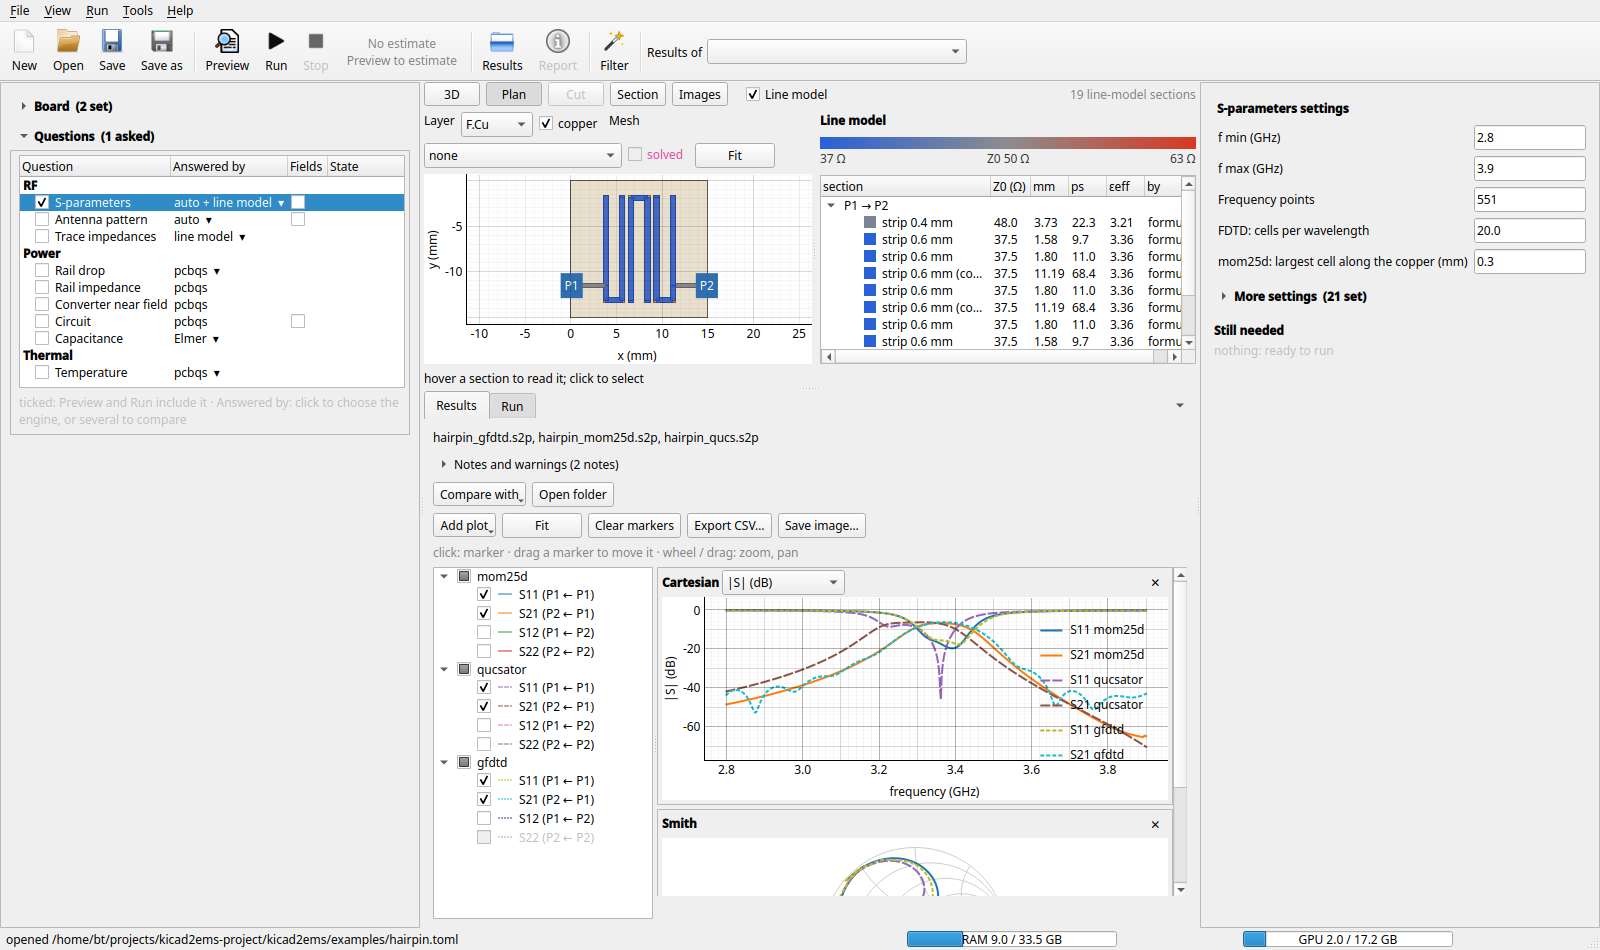
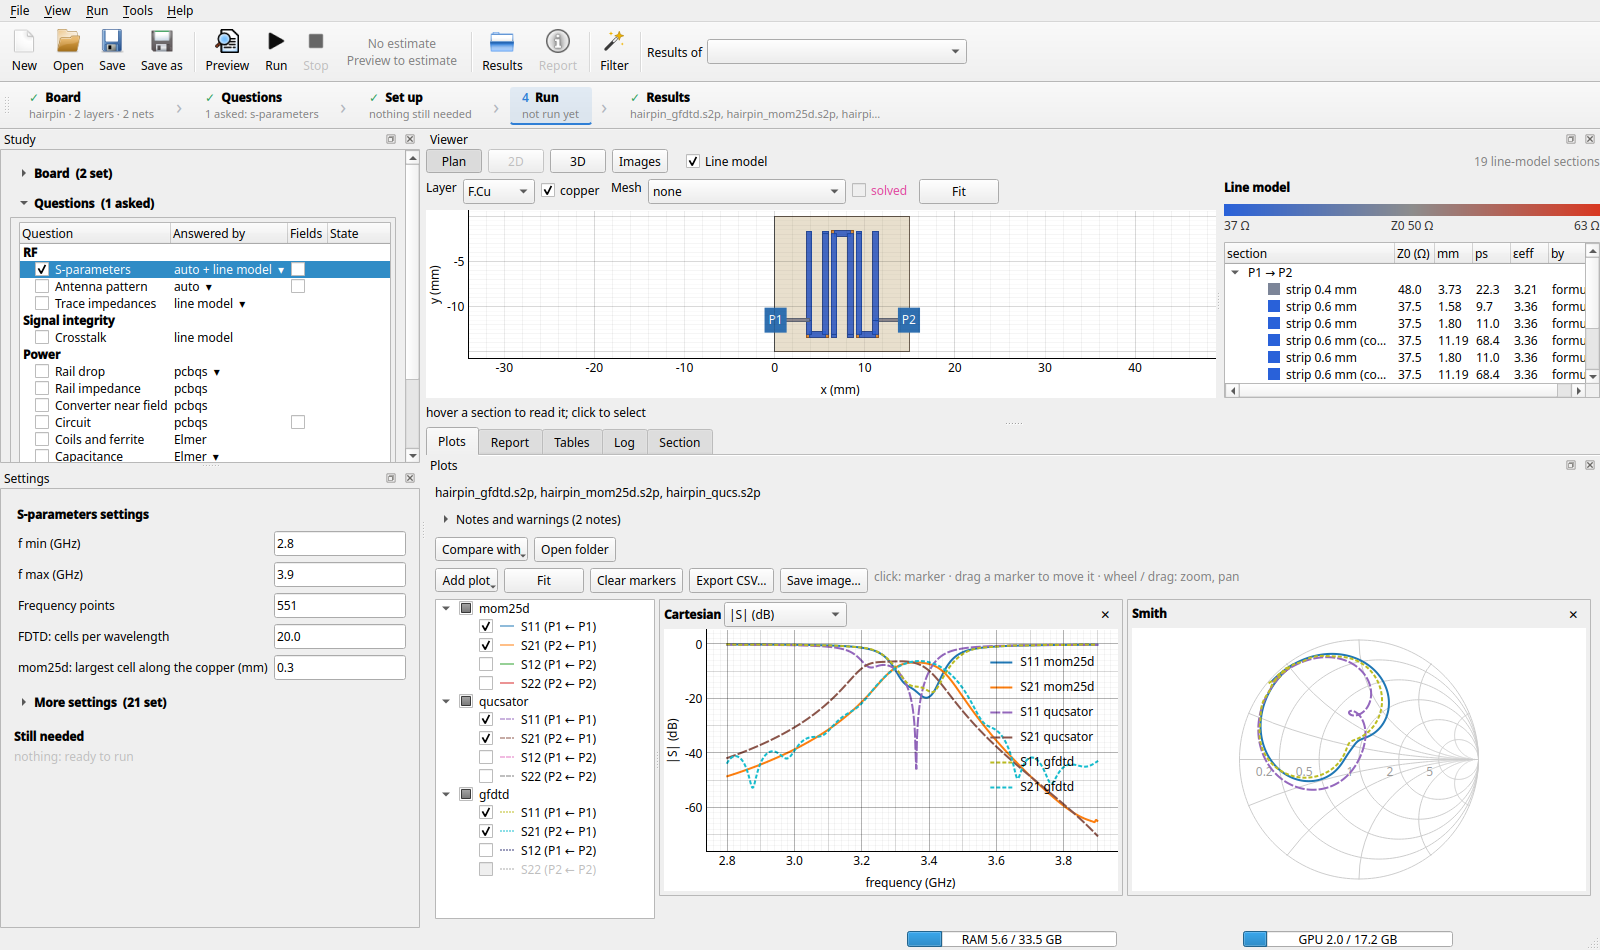
Docs for the window's Start page, result pages, Section page and steps bar
docs/gui.md describes the window as kicad2ems-gui now builds it: the
Start page, Plots, Report, Tables and Log as pages of their own, the
Section page under the board, the Viewer's four views in the order
Plan, 2D, 3D, Images, and the steps bar. The window's pictures are made
again (tools/readme_media.py), with one of the Start page. CHANGELOG
and ROADMAP say what was built and what is left. Pins kicad2ems-gui.

Claude-Session: https://claude.ai/code/session_012CT5QN8wURAqVga6eLwqiU

diff --git a/src/kicad2ems/__init__.py b/src/kicad2ems/__init__.py
@@ -38,7 +38,7 @@ The window is its own package, kicad2ems-gui (the gui extra), as are the full-wa
 
 Documentation: docs/index.md in the repository.
 """
-__version__ = '261112.post16'
+__version__ = '261112.post17'
 
 import os as _os
 # kicad2ems.examples is the checkout's examples/ (pyproject's package-dir). A compat editable install (install.py's

diff --git a/docs/gui.md b/docs/gui.md
@@ -15,8 +15,17 @@ loses a run, and the GUI itself doesn't need openEMS.
 ## The window
 
 Docks: what is asked and the settings of the question selected on the left, one over the other; the board with
-the results that are not maps under it in the rest of the window. Each dock can be dragged elsewhere, tabbed
-with another, floated or closed.
+the result's pages (its plots, its report, its tables, the log) beside and under it in the rest of the window.
+Each dock can be dragged elsewhere, tabbed with another, floated or closed.
+
+<a id="start"></a>
+**A window with no board begins on the Start page**: *Open a KiCad board…*, *Open a config…*, *Open a results
+folder…*, the configs opened lately, and the examples as tiles by group, each with its board drawn from above
+(a group shows its first five; *all* the rest; *Find an example* keeps those with every word typed in their
+name, title or group). A click on a tile opens the example as a study of its own. The page has the workspace to
+itself until a board is chosen or a result opened; *View > Start* brings it back.
+
+![The Start page: open a board, a config or a results folder, or begin from an example](img/gui/start.png)
 
 - **Toolbar**: New, Open, Save, Save as, Preview, Run, Stop, the run's estimate, the results folder, the report,
   *Filter* (the wand: [Filter Synthesis](#filter), a window of its own), and *Results of*: this board's preview
@@ -25,13 +34,21 @@ with another, floated or closed.
   red when it won't fit in the memory available. It opens the Solvers window. **Run says what it will do**
   (*Run 2*: its tooltip names them in order) or, while something is missing, what that is (*Choose the board*):
   clicking it then goes to where it is set ([Still needed](#needed)).
+- <a id="steps"></a>**Steps**, a bar under the toolbar: *Board*, *Questions*, *Set up*, *Run*, *Results*, each
+  with where it stands in a line (the board's layers and nets; what is asked; what is still needed; the
+  estimate, or the run's state; what the result is). Those done have a tick, the first that is not is marked;
+  a click goes to where a step is done. It says where the study is, and the toolbar stays what acts. Drag it by
+  its handle to the bottom of the window (or back), and *View > Steps* hides it.
 - **Status bar**: the memory in use, the GPU's (through `nvidia-smi` or `rocm-smi`), and a running run's own;
   amber above 80 %, red above 95 %.
 - **Left: the board and the questions.** The *Board* (its file and extra ports; the rest under *More about the
   board*), then the **Questions** asked of it ([below](#the-study)).
 - **The workspace: the board**, in the [Viewer](#viewer). While *Circuit* is asked its schematic is a tab beside
-  it, as Filter Synthesis is when opened. Under it the [Results](#plots) page and the [Run](#the-run-page) page,
-  tabbed; a page comes to the front when it has something new: Run when a run starts, Results when one ends.
+  it, as Filter Synthesis is when opened. A result has a page for each thing it is: its [Plots](#plots), beside
+  the board where the window has the width (1,400 px of workspace; else the first tab under it), and under the
+  board, tabbed, its [Report, its Tables](#report-page), the [Log](#the-log-page) and, with a line model, the
+  [Section](#section) picked. A page comes to the front when it has something new: the Log when a run starts,
+  the Report (or, for S-parameters, the Plots) when one ends.
 - **Left, under the questions: the settings of the question selected.** For S-parameters, the few a run is set up with: the frequency
   range and points, and the main cell size of each solver chosen. The rest are under **More settings**: the
   sections *Frequency*, *Solvers* (the driven ports), one per solver (*FDTD (openEMS, gfdtd)*: the mesh, run and
@@ -57,14 +74,15 @@ with another, floated or closed.
   what the proposal could not say (a rail's source) is listed under Still needed
   ([the steps on a board](https://github.com/lowprocess/pcbqs/blob/main/docs/power-workflow.md#4-from-one-tool-to-the-next)).
 
-*View* shows and closes each dock (the study and the settings: Ctrl+1, 2), and *View > Reset layout* puts them
-all back where a new window has them. The window remembers its size, where its docks are, its splitters and the
-Results page's plots between sessions; the first time it opens over the whole screen.
+*View* shows and closes each dock (the study and the settings: Ctrl+1, 2) and the steps bar, and *View > Reset
+layout* puts them all back where a new window has them. The window remembers its size, where its docks and the
+steps bar are, its splitters and the Plots page's plots between sessions; the first time it opens over the
+whole screen.
 
 <a id="run-folders"></a>
 **Where results go.** Each run gets a folder of its own under the output folder, named after the board and when it
 started (`<out>/<board>_20261013_104514/`); a preview goes to `<out>/<board>_preview/`, which each preview
-refreshes. Opening a config shows its newest run on the Results page and starts a preview, so the Viewer shows the
+refreshes. Opening a config shows its newest run on the result's pages and starts a preview, so the Viewer shows the
 board as it is now; *Results of* picks an earlier run.
 
 <a id="solvers"></a>
@@ -122,10 +140,11 @@ Selecting a row shows its engines' settings in the Settings dock, each a panel m
 engines: each under its name). **Run** makes the runs the questions take, in order: the solvers', then each
 analysis (the temperature after the circuit whose losses it takes); an engine that answers two questions
 answers them in one run. What a run leaves is shown where every result is: its maps in the Viewer (a rail's
-drop and current per layer, a board's temperature), its curves, its report and its tables on the Results page.
+drop and current per layer, a board's temperature), its curves on the Plots page, its report and its tables on
+theirs.
 
 <a id="pick"></a>
-**A setting picked on the board.** A setting that names a net or a part has a **pick** button beside it. With
+**A setting picked on the board.** A setting that names a net or a part has a **Pick** button beside it. With
 it down, the Viewer's plan is in front and a click there puts what is under the cursor into the setting: a
 trace's or a pour's net, or the part whose pads are there (the line under the plan says which, as the cursor
 moves). A setting that takes several adds each one clicked, and takes it out when it is clicked again; what
@@ -138,10 +157,10 @@ back when the pick ends. An engine says which of its settings can be picked ([an
 
 ![Two traces picked on the board for the crosstalk question](img/gui/pick.png)
 
-*CM5's HDMI control traces picked for the crosstalk question: **pick** beside *Nets*, then a click on each.*
+*CM5's HDMI control traces picked for the crosstalk question: **Pick** beside *Nets*, then a click on each.*
 
-**Two engines compared.** When another engine has answered the same question on this board, the report on the
-Results page gains a section *Engines compared*: the figures the engines name alike (a rail's own copper drop
+**Two engines compared.** When another engine has answered the same question on this board, the Report
+page gains a section *Engines compared*: the figures the engines name alike (a rail's own copper drop
 per load; the hottest point and each part's temperature) against the engines, with the difference. It is one of
 the report's tables, so it sorts, copies and exports as they do. A figure only one engine has is its own (pcbqs's
 drop with the ground return), and stays beside it.
@@ -161,15 +180,16 @@ model = "buck.json"                 # each analysis's settings, by its options' 
 <a id="viewer"></a>
 ## The Viewer
 
-The board and its fields, in five views (a view the folder has nothing for is greyed out):
+The board and its fields, in four views (a view the folder has nothing for is greyed out):
 
 | View | Shows |
 |---|---|
-| 3D | the board with its copper as shaded slabs, a solver's mesh, the line model, dumps in place, the far field |
 | Plan | one layer's copper from above (the others faint), a solver's mesh on it, the ports, the line model |
-| Cut | a cut through a field dump, with its values ([below](#cut-view)) |
-| Section | the field across the line-model section picked ([below](#section)) |
-| Images | the plots a run wrote: openEMS's mesh with its side views, the model, the line model |
+| 2D | a field dump in a cut, with its values ([below](#cut-view)) |
+| 3D | the board with its copper as shaded slabs, a solver's mesh, the line model, dumps in place, the far field |
+| Images | the pictures a preview or a run wrote as files: openEMS's mesh with its side views, the model, the line model |
+
+The field across one trace is a page of its own, [Section](#section), under the board.
 
 ![The Plan view: the hairpin's copper on F.Cu with mom25d's mesh, close up](img/readme/gui_mesh.png)
 
@@ -185,12 +205,15 @@ as a step in height. The list beside the view has every section by path (`P1 →
 delay, εeff and where its Z0 came from (*by*: the formula or the field solver); pick one there or on the plan.
 
 <a id="section"></a>
-### Section: the field across a trace
+### The Section page: the field across a trace
 
-Pick a section and open **Section**: the [field solver](transmission-lines.md#field-solver) solves that one
-cross-section (about 0.1 s, 2 s at worst on a real board) and draws it. A preview's line model is enough.
+Pick a section (in the list, or on the plan) and bring the **Section** page to the front: the
+[field solver](transmission-lines.md#field-solver) solves that one cross-section (about 0.1 s, 2 s at worst on a
+real board) and draws it. A preview's line model is enough. The page is under the board, so the plan stays in
+view: pick another section there and its field follows. It is there while the folder shown has a line model,
+and a section is solved only while the page is in view.
 
-![The Section view: a coupled pair of the hairpin in its odd mode, the field strength with equipotentials and field arrows](img/gui/section.png)
+![The Section page under the plan: a coupled pair of the hairpin in its odd mode, the field strength with equipotentials and field arrows](img/gui/section.png)
 
 | Setting | What it does |
 |---|---|
@@ -231,10 +254,10 @@ those the folder has nothing for hidden:
 ![The 3D view: a patch antenna's near field over one period](img/readme/patch_3d.gif)
 
 <a id="cut-view"></a>
-### Cut: field dumps in 2D
+### 2D: field dumps in a cut
 
 Add dumps under *Field dumps* in the settings (*Add a dump* builds the spec: [syntax](postprocessing.md#field-dumps)).
-A dump without frequencies is recorded over time, and the Cut view can follow it live while the run goes; one with
+A dump without frequencies is recorded over time, and the 2D view can follow it live while the run goes; one with
 frequencies is written at the end.
 
 | Control | |
@@ -246,15 +269,24 @@ frequencies is written at the end.
 | Live | follow a running simulation |
 | Save PNG / GIF / MP4 | the view or an animation (MP4 needs ffmpeg) |
 
-## The Run page
+<a id="the-run-page"></a>
+## The Log page
 
 Progress per driven port, the FDTD runs' energy decay, mom25d's adaptive sweep (its model change and prediction
 error per solve, in dB, against its tolerance), the log, and *Stop*.
 
-<a id="plots"></a>
-## The Results page
+<a id="report-page"></a>
+## The Report and Tables pages
 
-S-parameters and antenna results as a grid of plots (the picture at the top). *Add plot* adds one, ✕ removes it.
+What an analysis found, as it wrote it: the **Report** is the page to read (the figures that matter first, then
+what was assumed and what was left out), **Tables** its tables alone, each to sort, copy and export as CSV.
+An S-parameter run's report is an HTML file: *Report* in the toolbar opens it.
+
+<a id="plots"></a>
+## The Plots page
+
+S-parameters and antenna results as a grid of plots (the picture at the top), and an analysis's curves (a
+rail's impedance, a near field's spectrum, a circuit's waveforms). *Add plot* adds one, ✕ removes it.
 
 | Plot | Shows |
 |---|---|
@@ -274,7 +306,7 @@ single-ended port among them (Sds31).
   listed in a table; wheel and drag to zoom, *Fit* for everything.
 - **Add results folder…** overlays another run; **Export CSV…** and **Save image…**.
 
-![The Results page in antenna mode: match, gain and efficiency over frequency, and the polar cuts](img/readme/gui_antenna.png)
+![The Plots page in antenna mode: match, gain and efficiency over frequency, and the polar cuts](img/readme/gui_antenna.png)
 
 <a id="antenna"></a>
 In antenna mode the line above the plots gives the resonance, the input impedance and the −10 dB band, with a
@@ -334,7 +366,7 @@ A line's impedance in a stack-up, without a board: kicad2ems's 2D field solver
 - **Line**: the width and the copper's thickness; *A pair* adds the gap and gives Zdiff and Zcommon; *Ground beside
   it* a grounded coplanar line.
 - Every change is solved as it is typed (about 0.1 s). The numbers are on the left, with the closed form where
-  one applies; the field is on the right, as the Viewer's [Section](#section) draws a board's.
+  one applies; the field is on the right, as the [Section](#section) page draws a board's.
 - **Fit** changes the width, the gap or the ground's distance until the impedance chosen is the target, to 0.1 %.
   A target no size reaches says what the range is. **Copy** takes the line and its numbers as text.
 

diff --git a/CHANGELOG.md b/CHANGELOG.md
@@ -9,6 +9,9 @@ The format follows [Keep a Changelog](https://keepachangelog.com/en/1.1.0/).
 ## Unreleased
 
 ### Changed
+- **The Viewer's views are Plan, 2D, 3D, Images (kicad2ems-gui).** In that order, the board flat first; *Cut*
+  is named *2D* (a field dump in a cut), and *Section* left for a page of its own. A setting's **Pick** button
+  is capitalised.
 - **The window is docks again, with the settings on the left (kicad2ems-gui).** The fixed three-column layout
   (the settings in a column on the right, a drawer under the board, nothing movable) is taken back, on the
   user's word: the selected question's settings are a dock on the left under the study's, the Viewer, the
@@ -18,6 +21,28 @@ The format follows [Keep a Changelog](https://keepachangelog.com/en/1.1.0/).
   first, "Still needed", Run's wording, what a result proposes.
 
 ### Added
+- **The window begins on a Start page (kicad2ems-gui).** A window with no board showed an empty Viewer over
+  empty Results. It opens on *Start*: *Open a KiCad board…*, *Open a config…*, *Open a results folder…*, the
+  configs opened lately, and every example as a tile by group with its board drawn from above (drawn in a
+  thread the first time and kept in the cache folder; *Find an example* filters by word). The page is a dock,
+  tabbed with the Viewer, and has the workspace to itself: the result pages step aside while there is no board
+  and nothing to show, and come back where they were when a board is chosen or a result opened. *View > Start*
+  brings it back.
+- **A result's pages are docks of their own (kicad2ems-gui).** The Results page held three modes behind
+  buttons (Plots, Report, Tables) and the Run page the log. They are four pages, *Plots*, *Report*, *Tables*
+  and *Log*, each a dock that moves, tabs, floats and closes: Plots beside the board where the workspace has
+  1,400 px (else the first tab under it), the others tabbed under the board. A run's end brings the Report to
+  the front (the Plots for S-parameters), so a report and its curves, or a table and the board, are seen
+  together.
+- **Section is a page under the board (kicad2ems-gui).** The field across a line-model section was a view of
+  the Viewer, so opening it hid the plan the section is picked on. It is a page of its own, tabbed with the
+  Report under the board: pick a section on the plan or in the list and its field follows. It is there while
+  the folder shown has a line model, and solves only while it is in view.
+- **The steps of a study, as a bar (kicad2ems-gui).** Under the toolbar: Board, Questions, Set up, Run,
+  Results, each with where it stands in a line (the board's layers and nets, what is asked, what is still
+  needed, the estimate or the run's state, what the result is), those done ticked and the next one marked; a
+  click goes to where the step is done. The toolbar stays what acts. The bar is a toolbar of its own: it drags
+  to the bottom of the window and *View > Steps* hides it, both kept with the layout.
 - **The study as a model with no window (kicad2ems-gui: `study.StudyModel`).** What is asked of a board, who
   answers each question, the Fields ticks, what cannot run here and why, each run's state and the runs a Run
   takes were the Study dock's list's own, inside a Qt widget. They are an object that imports no Qt, with

diff --git a/ROADMAP.md b/ROADMAP.md
@@ -53,9 +53,12 @@ that: nothing in it may fix a panel in place. Left:
 3. **Picking on the board: what is left.** Nets and parts are picked (an option's `pick`, API 2.11). Not yet:
    a pad (a port: `REF.PAD`, or a point), a `REF=VALUE` list's part (a rail's loads, a part's loss), a region
    dragged as a box, and the pick in the 3D view. The Circuit page's own file buttons go.
-4. **To be asked before building** (designed for the fixed layout, so they may not fit docks): a header with
-   the steps Board, Questions, Set up, Run, Results in place of the toolbar; Plots, Report, Tables and Log as
-   docks of their own instead of the Results and Run pages; a start page with the examples as a gallery.
+4. **The window's pages, the rest.** Built 2026-11-13, as docks (the user's choice among three mock-ups): the
+   Start page with the examples as tiles, Plots, Report, Tables and Log as pages of their own, Section as one
+   too (the Viewer's buttons are Plan, 2D, 3D, Images), and the steps as a bar under the toolbar that moves to
+   the bottom and hides. Left: *Images* may belong on a page of its own as Section does (asked, not decided);
+   a tile says nothing of what its example takes (the engine, the time: the index has neither); *Reset layout*
+   still aborts Qt on Windows when a dock was floating (the CI's native-platform step is there to find where).
 
 ## The line model
 

diff --git a/docs/transmission-lines.md b/docs/transmission-lines.md
@@ -122,7 +122,7 @@ solver gives 8.4 % and 15.7 %, and with the copper FDTD's Zdiff is 91.9 and 83.4
 The formulas also miss what lies beside a stripline: on the CM5 Minima, `PCIE_PI.nRST` runs on In2.Cu with ground
 0.2 mm beside it, 71.9 Ω by the offset-stripline formula and 58.8 Ω by its cut; cropped and solved by openEMS, its
 total C is 1.07 pF, against 1.05 pF for the cut and 0.89 pF for the formula (`tools/lines_crop_check.py`). In the GUI,
-the [Section view](gui.md#section) draws any section's cut.
+the [Section page](gui.md#section) draws any section's cut.
 
 <a id="calculator"></a>
 ### Stack-up calculator
@@ -158,7 +158,7 @@ line model's cuts are for. `--plot` writes the field (a pair's odd mode, or `--m
 ![A 100 Ω pair's odd-mode field, from kicad2ems-z0 --plot](img/z0_calculator.png)
 
 From Python, `kicad2ems.lines.calc`: `Line`, `calculate`, `fit`, `Line.on_board`, and `element` for the
-[Section view](gui.md#section). The GUI has it under Tools > Impedance calculator.
+[Section page](gui.md#section). The GUI has it under Tools > Impedance calculator.
 
 <a id="lines-field"></a>
 ### The line model on the field solver

diff --git a/docs/mom.md b/docs/mom.md
@@ -216,7 +216,7 @@ antenna_vivaldi 257 s to 140 s, antenna_array2x2_phased 28 s to 18 s.
   sidelobes −14 / −13 dB uniform, −28 / −25 dB with `taylor:25`, −30 / −27 dB with `chebyshev:25`, for about 1 dB of
   gain.
 
-Each port's far field is kept in `<name>_mom25d_array.npz`, which the GUI's Results page steers without solving
+Each port's far field is kept in `<name>_mom25d_array.npz`, which the GUI's Plots page steers without solving
 again ([Beam steering](gui.md#beam-steering)). openEMS and gfdtd take `drive` too: a run per driven port, each run's
 far field per unit incident wave summed for the drive, steered in the GUI likewise. On the 2×2 example gfdtd puts
 the beam at θ 10° (mom25d 15°: its infinite ground has no board edge).

diff --git a/docs/si.md b/docs/si.md
@@ -10,7 +10,7 @@ kicad2ems study examples/si_bus.toml          # the same from a config: [analysi
 ```
 
 In the window it is **Crosstalk** under *Signal integrity* in the study's questions. *Find traces side by side*
-lists the pairs of nets that run close together on the board, to pick from; **pick** beside *Nets* takes them
+lists the pairs of nets that run close together on the board, to pick from; **Pick** beside *Nets* takes them
 from clicks on the board ([picking](gui.md#pick)).
 
 ![The crosstalk question's result in the window](img/gui/crosstalk.png)
